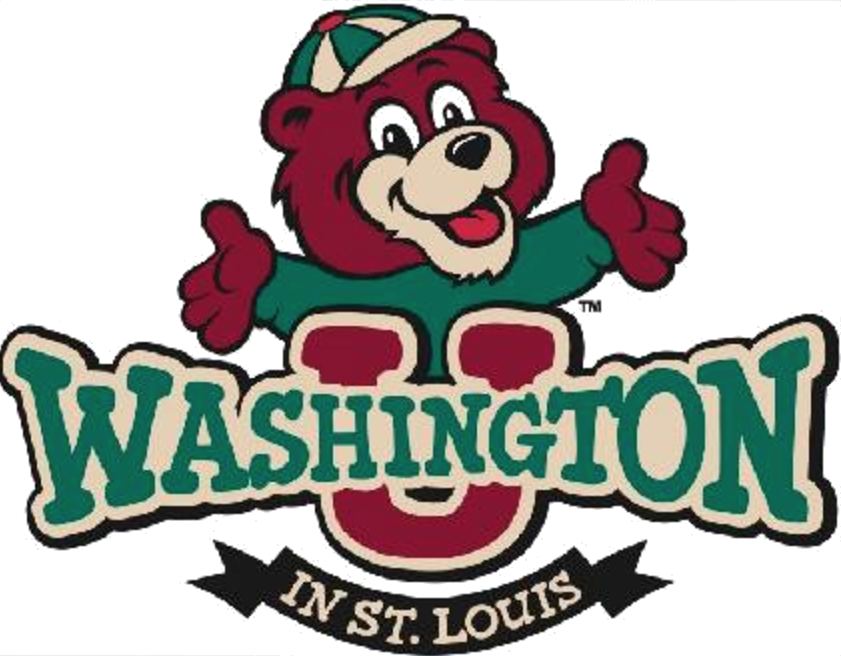
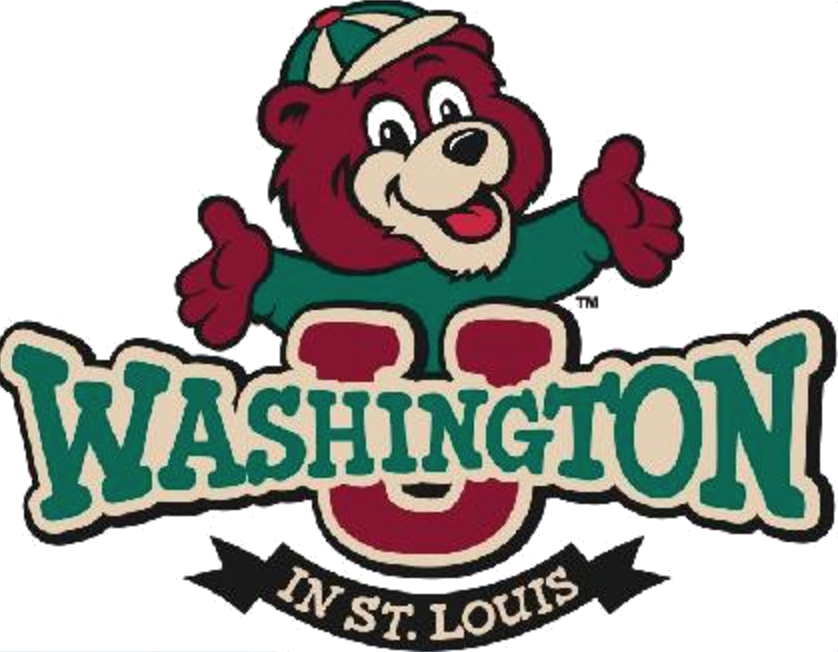
added meme image

Changed region(s): [[0.0, 0.0, 1.0, 1.0], [0.7136, 0.8282, 0.8067, 0.9202]]

diff --git a/index.html b/index.html
@@ -46,7 +46,7 @@
             <div class="grid">
                 <h1>Washington University at St. Louis</h1>
                 <h2>Undergraduate Admissions Office</h2>
-                <img src="/img/washu-meme.png"/ height=321>
+                <img src="/img/washu-meme.png"/ height=210>
                 <div class="cf">
                   <p>Thank you for your interest in the Washington University at St. Louis Admissions Office.</p>
                   <p>If you are another student interested in a better university than WashU (ie. top 10), please download the transfer application at the Johns Hopkins University Transfer Students website</a>.</p>
